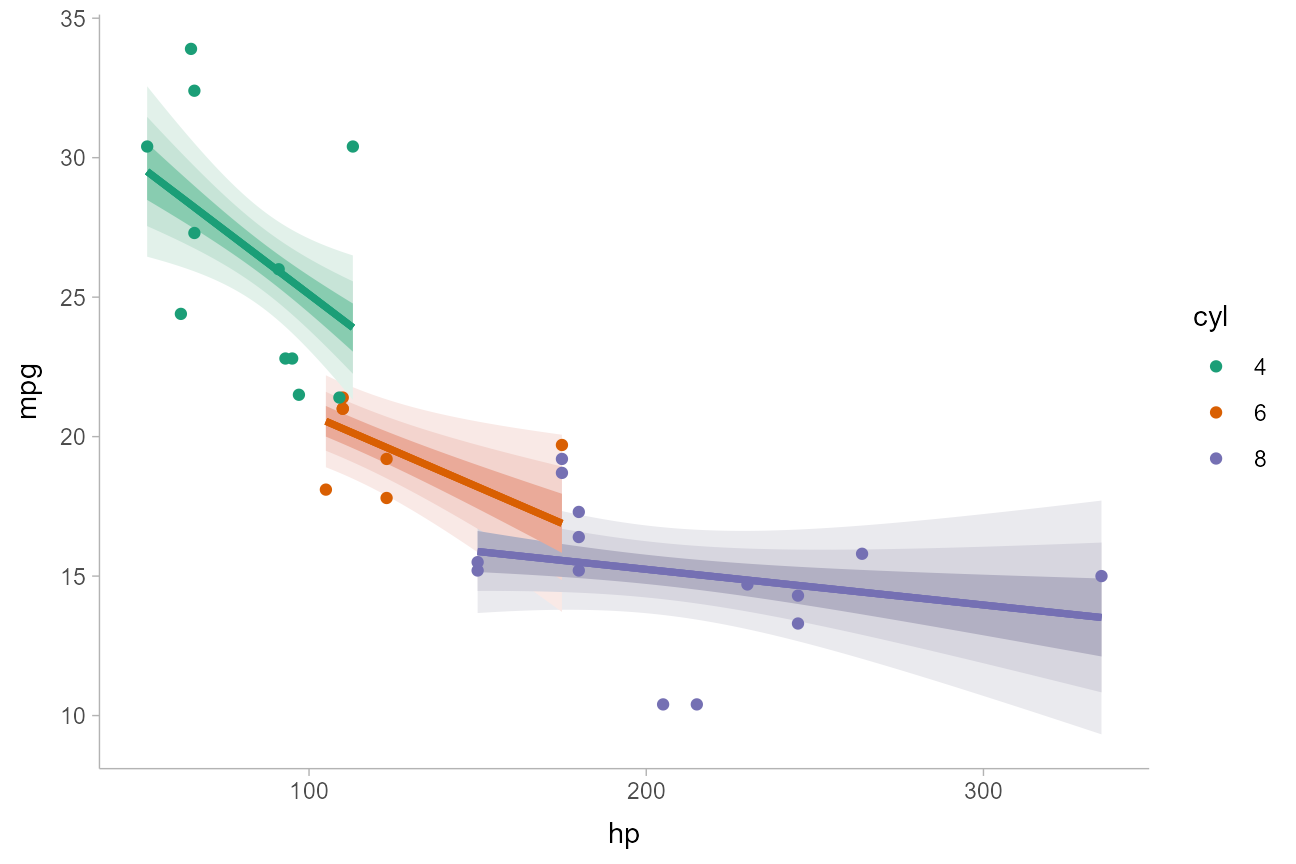
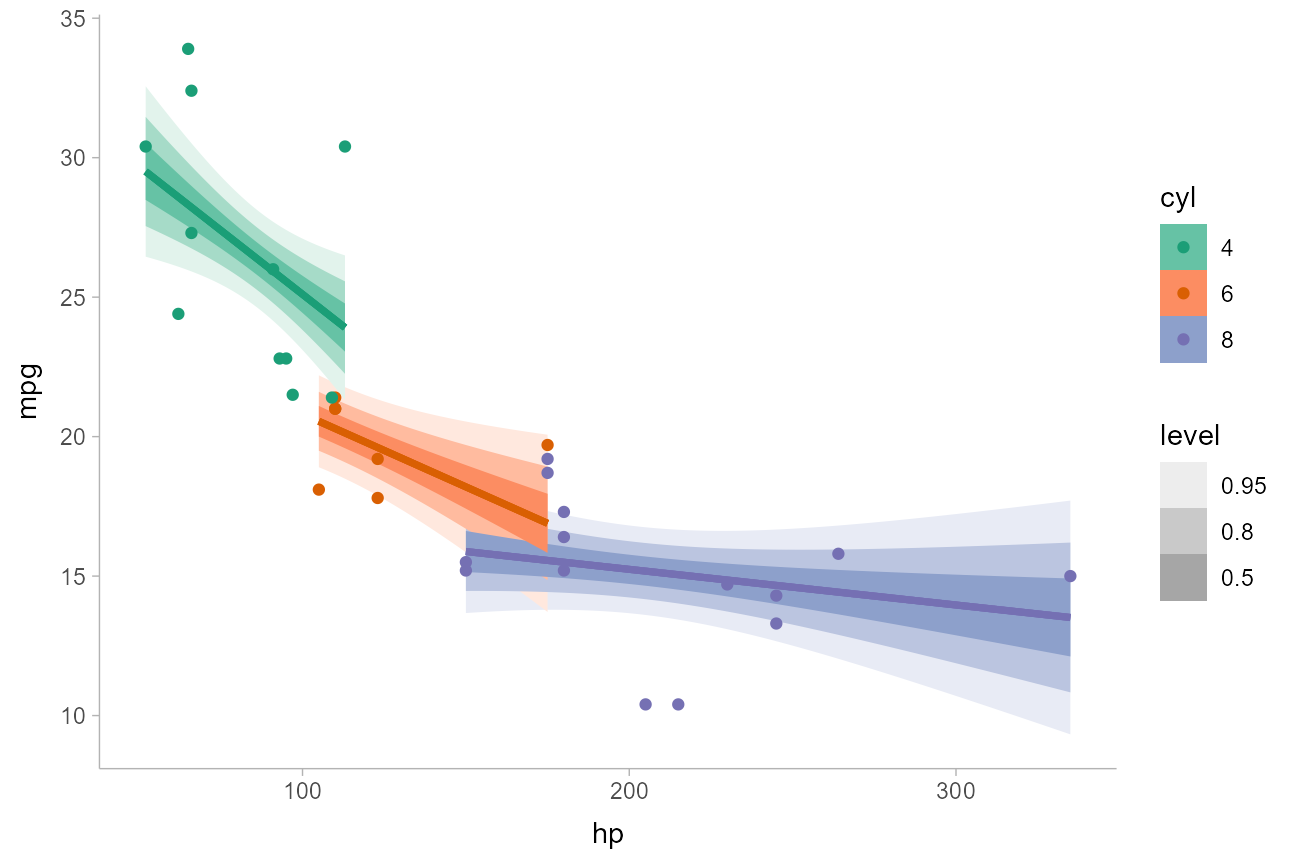
use fill_ramp instead of after_stat lightening in freq-uncertainty-vis

diff --git a/docs/articles/freq-uncertainty-vis.html b/docs/articles/freq-uncertainty-vis.html
@@ -99,14 +99,14 @@
 
       
 
-      </header><script src="freq-uncertainty-vis_files/accessible-code-block-0.0.1/empty-anchor.js"></script><link href="freq-uncertainty-vis_files/anchor-sections-1.0/anchor-sections.css" rel="stylesheet">
+      </header><script src="freq-uncertainty-vis_files/header-attrs-2.5/header-attrs.js"></script><link href="freq-uncertainty-vis_files/anchor-sections-1.0/anchor-sections.css" rel="stylesheet">
 <script src="freq-uncertainty-vis_files/anchor-sections-1.0/anchor-sections.js"></script><div class="row">
   <div class="col-md-9 contents">
     <div class="page-header toc-ignore">
       <h1 data-toc-skip>Frequentist uncertainty visualization</h1>
                         <h4 class="author">Matthew Kay</h4>
             
-            <h4 class="date">2020-11-24</h4>
+            <h4 class="date">2020-12-28</h4>
       
       <small class="dont-index">Source: <a href="https://github.com/mjskay/ggdist/blob/master/vignettes/freq-uncertainty-vis.Rmd"><code>vignettes/freq-uncertainty-vis.Rmd</code></a></small>
       <div class="hidden name"><code>freq-uncertainty-vis.Rmd</code></div>
@@ -297,10 +297,6 @@ img {
 <span class="va">m_mpg</span> <span class="op">=</span> <span class="fu"><a href="https://rdrr.io/r/stats/lm.html">lm</a></span><span class="op">(</span><span class="va">mpg</span> <span class="op">~</span> <span class="va">hp</span> <span class="op">*</span> <span class="va">cyl</span>, data <span class="op">=</span> <span class="va">mtcars</span><span class="op">)</span></pre></div>
 <p>Again we’ll use <code><a href="https://modelr.tidyverse.org/reference/data_grid.html">modelr::data_grid()</a></code> with <code><a href="https://generics.r-lib.org/reference/tidy.html">broom::tidy()</a></code>, but now we’ll employ <code><a href="../reference/stat_lineribbon.html">stat_dist_lineribbon()</a></code>:</p>
 <div class="sourceCode" id="cb15"><pre class="downlit">
-<span class="va">lighten2</span> <span class="op">=</span> <span class="fu"><a href="https://rdrr.io/r/base/Vectorize.html">Vectorize</a></span><span class="op">(</span><span class="kw">function</span><span class="op">(</span><span class="va">color</span>, <span class="va">amount</span><span class="op">)</span> <span class="op">{</span>
-  <span class="fu"><a href="https://rdrr.io/r/grDevices/rgb.html">rgb</a></span><span class="op">(</span><span class="fu"><a href="https://rdrr.io/r/grDevices/colorRamp.html">colorRamp</a></span><span class="op">(</span><span class="fu"><a href="https://rdrr.io/r/base/c.html">c</a></span><span class="op">(</span><span class="va">color</span>, <span class="st">"white"</span><span class="op">)</span>, space <span class="op">=</span> <span class="st">"Lab"</span><span class="op">)</span><span class="op">(</span><span class="va">amount</span><span class="op">)</span>, max <span class="op">=</span> <span class="fl">255</span><span class="op">)</span>
-<span class="op">}</span><span class="op">)</span>
-
 <span class="va">mtcars</span> <span class="op">%&gt;%</span>
   <span class="fu"><a href="https://dplyr.tidyverse.org/reference/group_by.html">group_by</a></span><span class="op">(</span><span class="va">cyl</span><span class="op">)</span> <span class="op">%&gt;%</span>
   <span class="fu"><a href="https://modelr.tidyverse.org/reference/data_grid.html">data_grid</a></span><span class="op">(</span>hp <span class="op">=</span> <span class="fu"><a href="https://modelr.tidyverse.org/reference/seq_range.html">seq_range</a></span><span class="op">(</span><span class="va">hp</span>, n <span class="op">=</span> <span class="fl">101</span><span class="op">)</span><span class="op">)</span> <span class="op">%&gt;%</span>
@@ -320,7 +316,7 @@ img {
     y <span class="op">=</span> <span class="st">"mpg"</span>
   <span class="op">)</span></pre></div>
 <p><img src="freq-uncertainty-vis_files/figure-html/lineribbon-1.png" width="648"></p>
-<p>Another alternative to using <code>alpha</code> to create gradations of lineribbon colors in different groups is to manually adjust the lightness of each ribbon using <code><a href="https://ggplot2.tidyverse.org/reference/aes_eval.html">ggplot2::stage()</a></code>, which allows you to transform color values after they have been computed. Here we’ll combine it with <code><a href="http://colorspace.R-Forge.R-project.org//reference/lighten.html">colorspace::lighten()</a></code> to lighten the fill color of each band according to its width:</p>
+<p>Another alternative to using <code>alpha</code> to create gradations of lineribbon colors in different groups is to use the <code>fill_ramp</code> aesthetic provided by <code>ggdist</code> to “ramp” the fill color of the ribbons from <code>"white"</code> to their full color (see <code><a href="../reference/scale_colour_ramp.html">help("scale_fill_ramp")</a></code>). Here we’ll “whiten” the fill color of each band according to its <code>level</code> (the <code>level</code> variable is computed by <code><a href="../reference/stat_lineribbon.html">stat_dist_lineribbon()</a></code> and is an ordered factor version of <code>.width</code>):</p>
 <div class="sourceCode" id="cb16"><pre class="downlit">
 <span class="va">mtcars</span> <span class="op">%&gt;%</span>
   <span class="fu"><a href="https://dplyr.tidyverse.org/reference/group_by.html">group_by</a></span><span class="op">(</span><span class="va">cyl</span><span class="op">)</span> <span class="op">%&gt;%</span>
@@ -329,11 +325,12 @@ img {
   <span class="fu"><a href="https://ggplot2.tidyverse.org/reference/ggplot.html">ggplot</a></span><span class="op">(</span><span class="fu"><a href="https://ggplot2.tidyverse.org/reference/aes.html">aes</a></span><span class="op">(</span>x <span class="op">=</span> <span class="va">hp</span>, color <span class="op">=</span> <span class="fu"><a href="https://rdrr.io/r/base/factor.html">ordered</a></span><span class="op">(</span><span class="va">cyl</span><span class="op">)</span><span class="op">)</span><span class="op">)</span> <span class="op">+</span>
   <span class="fu"><a href="../reference/stat_lineribbon.html">stat_dist_lineribbon</a></span><span class="op">(</span><span class="fu"><a href="https://ggplot2.tidyverse.org/reference/aes.html">aes</a></span><span class="op">(</span>
     dist <span class="op">=</span> <span class="fu"><a href="https://pkg.mitchelloharawild.com/distributional/reference/dist_student_t.html">dist_student_t</a></span><span class="op">(</span>df <span class="op">=</span> <span class="fu"><a href="https://rdrr.io/r/stats/df.residual.html">df.residual</a></span><span class="op">(</span><span class="va">m_mpg</span><span class="op">)</span>, mu <span class="op">=</span> <span class="va">.fitted</span>, sigma <span class="op">=</span> <span class="va">.se.fit</span><span class="op">)</span>,
-    fill <span class="op">=</span> <span class="fu"><a href="https://ggplot2.tidyverse.org/reference/aes_eval.html">stage</a></span><span class="op">(</span>start <span class="op">=</span> <span class="fu"><a href="https://rdrr.io/r/base/factor.html">ordered</a></span><span class="op">(</span><span class="va">cyl</span><span class="op">)</span>, after_scale <span class="op">=</span> <span class="fu">colorspace</span><span class="fu">::</span><span class="fu"><a href="http://colorspace.R-Forge.R-project.org//reference/lighten.html">lighten</a></span><span class="op">(</span><span class="va">fill</span>, <span class="va">.width</span> <span class="op">*</span> <span class="fl">.9</span>, space <span class="op">=</span> <span class="st">"combined"</span><span class="op">)</span><span class="op">)</span>
-  <span class="op">)</span>, show.legend <span class="op">=</span> <span class="cn">FALSE</span><span class="op">)</span> <span class="op">+</span>
+    fill <span class="op">=</span> <span class="fu"><a href="https://rdrr.io/r/base/factor.html">ordered</a></span><span class="op">(</span><span class="va">cyl</span><span class="op">)</span>,
+    fill_ramp <span class="op">=</span> <span class="fu"><a href="https://ggplot2.tidyverse.org/reference/aes_eval.html">stat</a></span><span class="op">(</span><span class="va">level</span><span class="op">)</span>
+  <span class="op">)</span><span class="op">)</span> <span class="op">+</span>
   <span class="fu"><a href="https://ggplot2.tidyverse.org/reference/geom_point.html">geom_point</a></span><span class="op">(</span><span class="fu"><a href="https://ggplot2.tidyverse.org/reference/aes.html">aes</a></span><span class="op">(</span>y <span class="op">=</span> <span class="va">mpg</span><span class="op">)</span>, data <span class="op">=</span> <span class="va">mtcars</span><span class="op">)</span> <span class="op">+</span>
   
-  <span class="fu"><a href="https://ggplot2.tidyverse.org/reference/scale_brewer.html">scale_fill_brewer</a></span><span class="op">(</span>palette <span class="op">=</span> <span class="st">"Dark2"</span><span class="op">)</span> <span class="op">+</span>
+  <span class="fu"><a href="https://ggplot2.tidyverse.org/reference/scale_brewer.html">scale_fill_brewer</a></span><span class="op">(</span>palette <span class="op">=</span> <span class="st">"Set2"</span><span class="op">)</span> <span class="op">+</span>
   <span class="fu"><a href="https://ggplot2.tidyverse.org/reference/scale_brewer.html">scale_color_brewer</a></span><span class="op">(</span>palette <span class="op">=</span> <span class="st">"Dark2"</span><span class="op">)</span> <span class="op">+</span>
   <span class="fu"><a href="https://ggplot2.tidyverse.org/reference/labs.html">labs</a></span><span class="op">(</span>
     color <span class="op">=</span> <span class="st">"cyl"</span>,

diff --git a/docs/articles/freq-uncertainty-vis_files/header-attrs-2.5/header-attrs.js b/docs/articles/freq-uncertainty-vis_files/header-attrs-2.5/header-attrs.js
@@ -1,0 +1,12 @@
+// Pandoc 2.9 adds attributes on both header and div. We remove the former (to
+// be compatible with the behavior of Pandoc < 2.8).
+document.addEventListener('DOMContentLoaded', function(e) {
+  var hs = document.querySelectorAll("div.section[class*='level'] > :first-child");
+  var i, h, a;
+  for (i = 0; i < hs.length; i++) {
+    h = hs[i];
+    if (!/^h[1-6]$/i.test(h.tagName)) continue;  // it should be a header h1-h6
+    a = h.attributes;
+    while (a.length > 0) h.removeAttribute(a[0].name);
+  }
+});
